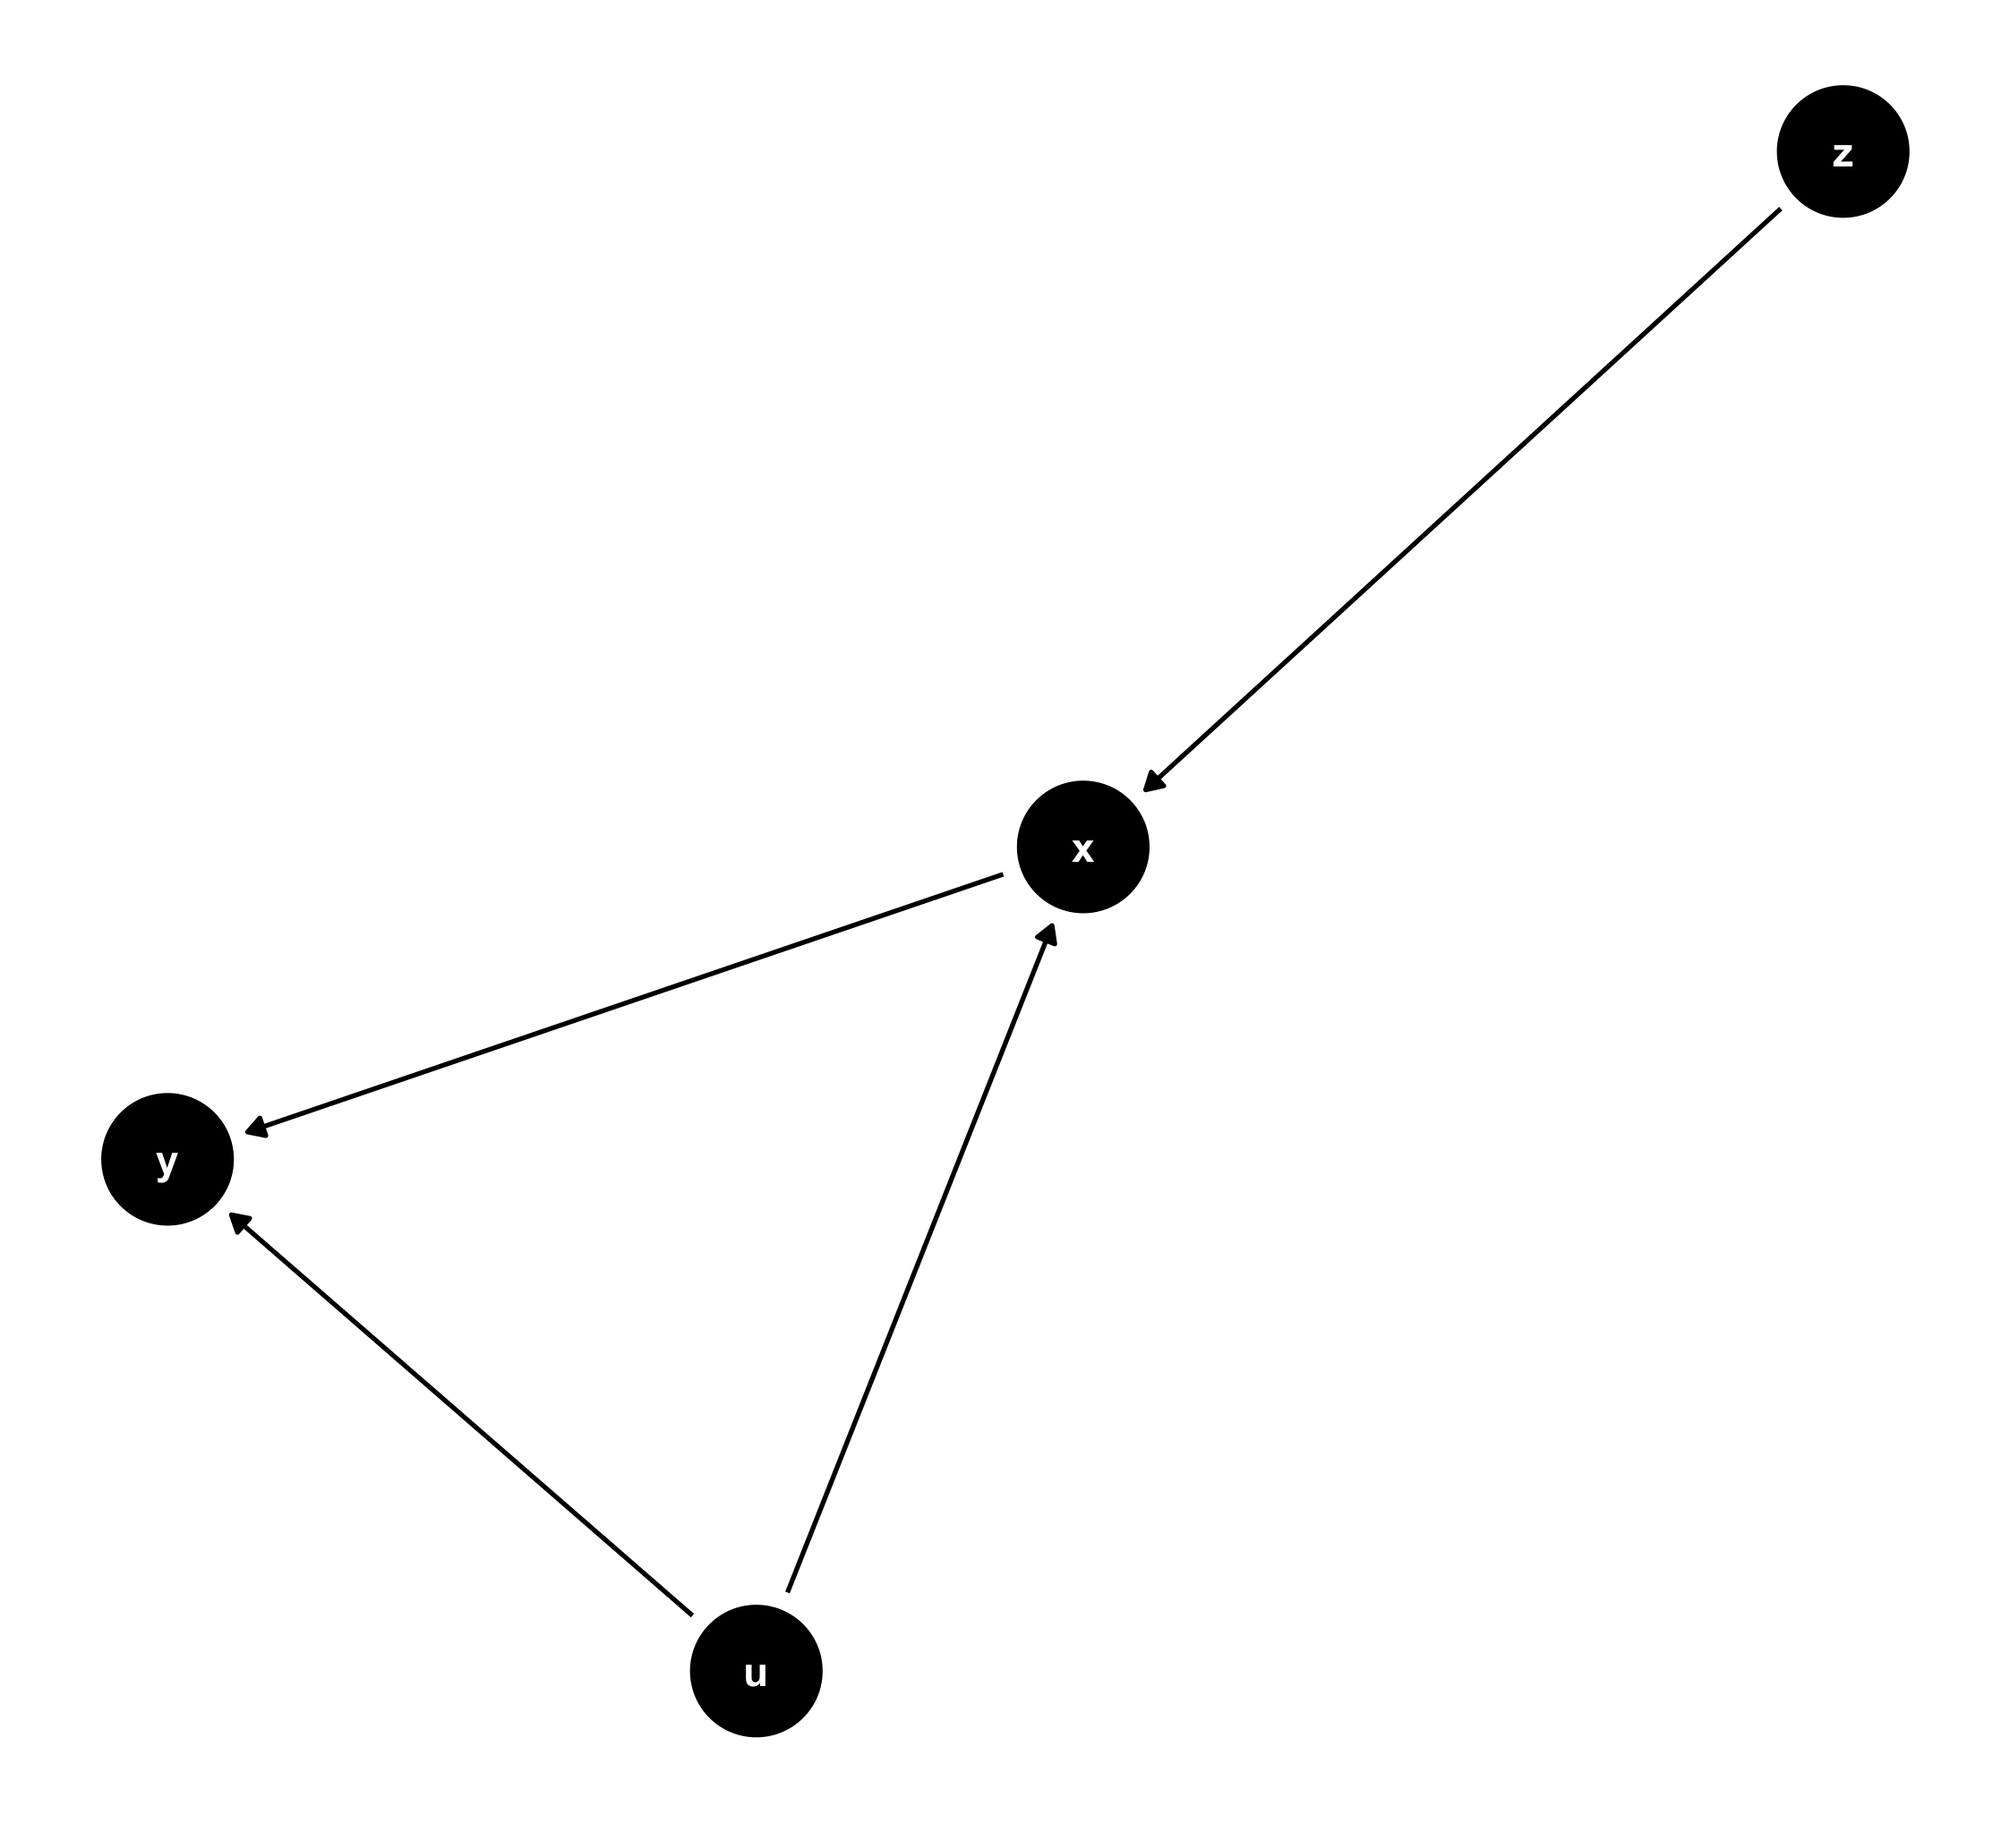
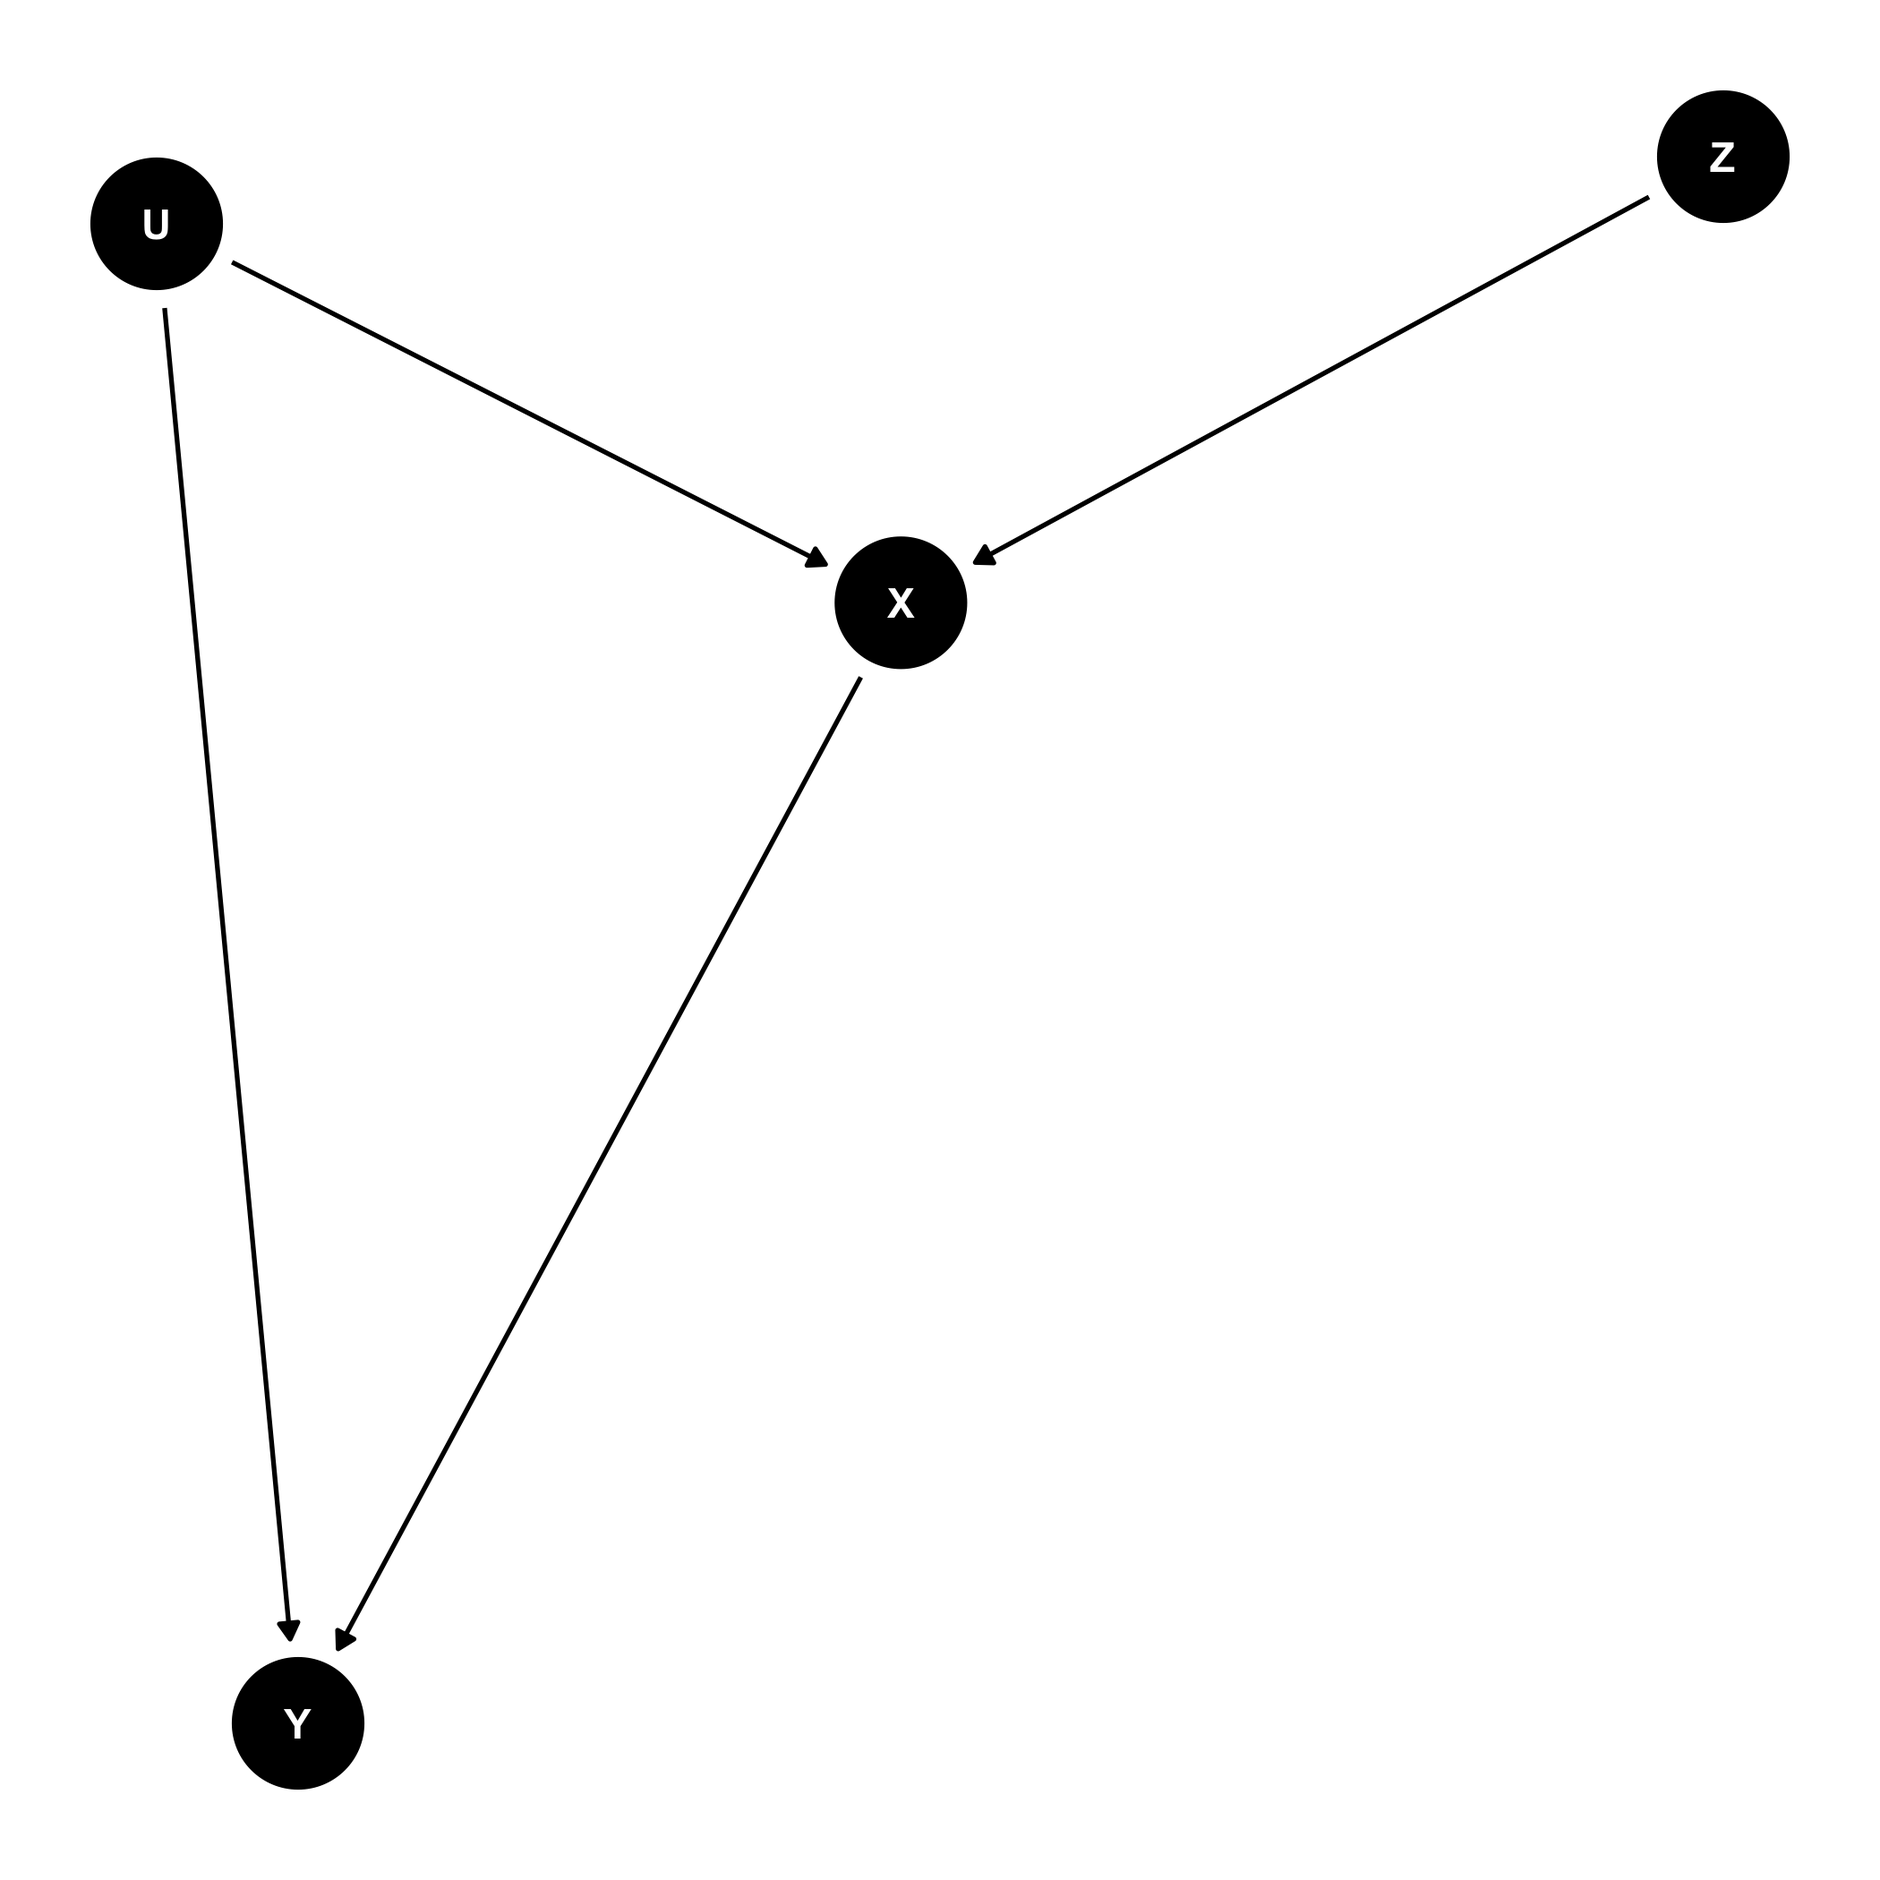
Fix a few typos, images

diff --git a/content/post/causal_inference_two/index.md b/content/post/causal_inference_two/index.md
@@ -30,21 +30,21 @@ happy confines of a randomized clinical trial generally requires constant concer
 However, nothing in life comes easy and IVs come with their own unique set of assumptions, the first set of which are appropriately named "the three instrumental conditions".
 Before we explore these and more in greater detail, let's return to a generic set-up in which we're interested in identifying some causal relationship. 
 
-In the figure below, variable $Y$ is the causal outcome of $X$ and $U$. $X$ is also causally determined by variable $z$ which is independent of any of the other variables.
+In the figure below, variable $Y$ is the causal outcome of $X$ and $U$. $X$ is also causally determined by variable $Z$ which is independent of any of the other variables.
 If we're interested in identifying the causal effect of $X$ on $Y$ then we need to find some way to control for $U$ to ensure *exchangeability*. However,
 if we're unable to measure $U$, then there is still hope for us via the use of IVs!
 
 {{< figure library="true" src="BEFIV_one.png" title="" lightbox="true" >}}
 
-In our above example $Z$ could be used as an IV because it satisfies the three instrumental conditions, which are as follows:
+In our above example $Z$ could be used as an IV if it satisfies the three instrumental conditions, which are as follows:
 1. $Z$ is associated with $X$.
 2. $Z$ is not associated with $Y$ except through $X$.
 3. $Z$ and $Y$ do not share causes.
 
 The IV can be thought of as (amongst other things) a kind of upstream or proxy variable that measures what we're really interested in but can't feasibly measure.
-For example, define $Z$ the distance between subjects and the nearest fast food restaurant (FFR), 
-$X$ as excess junk food consumption, $Y$ as body mass index (BMI) and $U$ a (hypothetical) genetic factor that is linked to both excess junk food consumption
-as well as excess fast storage. In this case our diagram could be relabeled and we can now consider whether FFR distance satisfies the 
+For example, define $Z$ as the distance between individuals living in a city and the nearest fast food restaurant (FFR) to them. 
+Similarly, define $X$ as excess junk food consumption, $Y$ as body mass index (BMI) and $U$ a (hypothetical) genetic factor that is linked to both excess junk food consumption
+as well as excess fat storage. In this case our diagram could be relabeled and we can now consider whether FFR distance satisfies the 
 instrumental conditions.
 
 
@@ -56,7 +56,8 @@ So does it satisfy the conditions? In order to determine this we need to ask the
 2. Is FFR proximity independent of BMI except through excess junk food consumption?
 3. Does FFR proximity share causes with BMI?
 
-This is where things become tricky and why this example represents a departure from hypothetical to realistic.
+This is where things become tricky and why this example represents a departure from hypothetical to realistic. Let's work through these 
+questions one-by-one in order to see how FFR proximity fails or succeeds to be an effective IV.
 
 ### 1. Is FFR proximity associated with excess junk food consumption? 
 
@@ -77,7 +78,7 @@ this causal framework.
 
 {{< figure library="true" src="BEFIV_three.png" title="" lightbox="true" >}}
 
-In order to remove this confounding and restore the ability of FFR proximity to act as an IV, we'll need to condition on subjects' income in order to account
+In order to remove this confounding and restore the ability of FFR proximity to act as an IV, we'll need to condition on subjects' income, or something similar, in order to account
 for the association between affluence and BMI[^2].
 
 With this obstacle overcome, are we done? Can we safely measure and use the distance between subjects and FFRs as an IV? Well ... not quite.
@@ -89,8 +90,8 @@ In our example, we're probably looking at more than one FFR and more than one ty
 If we're to lump these all together, do we assume they all have the same effect?  This question speaks to the assumption of homogeneity and can be understood
 in relation to the consistency condition described in the preface blog post. If we're trying to estimate the causal effect of excess junk food consumption on
 BMI, it is not *likely* that all FFRs result in the same level of excess junk food consumption, however this may be an assumption we have to make. Furthermore,
-if we are to  model the affect of multiple FFRs we will have to make some assumption as to whether the relationship is additive - linear in the number of FFRs
-or nonlinear. Models that I've worked on, that have been implemented in software like [`rstap`](https://biostatistics4socialimpact.github.io/rstap) and [`bbnet`](https://apeterson91.github.io/bbnet/) 
+if we are to  model the affect of multiple FFRs we will have to make some assumption as to whether the relationship is additive - linear in the number of FFRs - 
+or nonlinear. Models that I've developed, that have been implemented in software like [`rstap`](https://biostatistics4socialimpact.github.io/rstap) and [`bbnet`](https://apeterson91.github.io/bbnet/),
 make this assumption for computational and interpretable convenience, but it is likely not true[^3]. As with most things in science, these assumptions 
 are starting points upon which to build more sophisticate models that offer more flexibility.
 
@@ -105,8 +106,7 @@ In the next blog post we'll complicate matters further, by considering what role
 
 
 
-[^1]:An outlandish example would be to imagine if there were a brand of FFR's that also offered gyms (many McDonalds used to have playgrounds in the 90s). In this way FFR's would affect BMI through both
-junk food consumption *and* access to physical recreation, invalidating assumption 2.
+[^1]:An outlandish example would be to imagine if there were a brand of FFR's that also offered gyms (many McDonalds used to have playgrounds in the 90s). In this way FFR's would affect BMI through both junk food consumption *and* access to physical recreation, invalidating assumption 2.
 [^2]: If you find yourself asking, "Wait, wasn't the whole point of using IVs to remove all that confounding business?" The answer is yes, kind of. By using the IV we're removing the confounding associated with junk good consumption - but not the instrument itself. As it happens affluence is likely correlated with both.
 [^3]: Technically `rstap` also allows for a log-linear relationship, but it takes a long time to fit and the results are not as interpretable.
 
